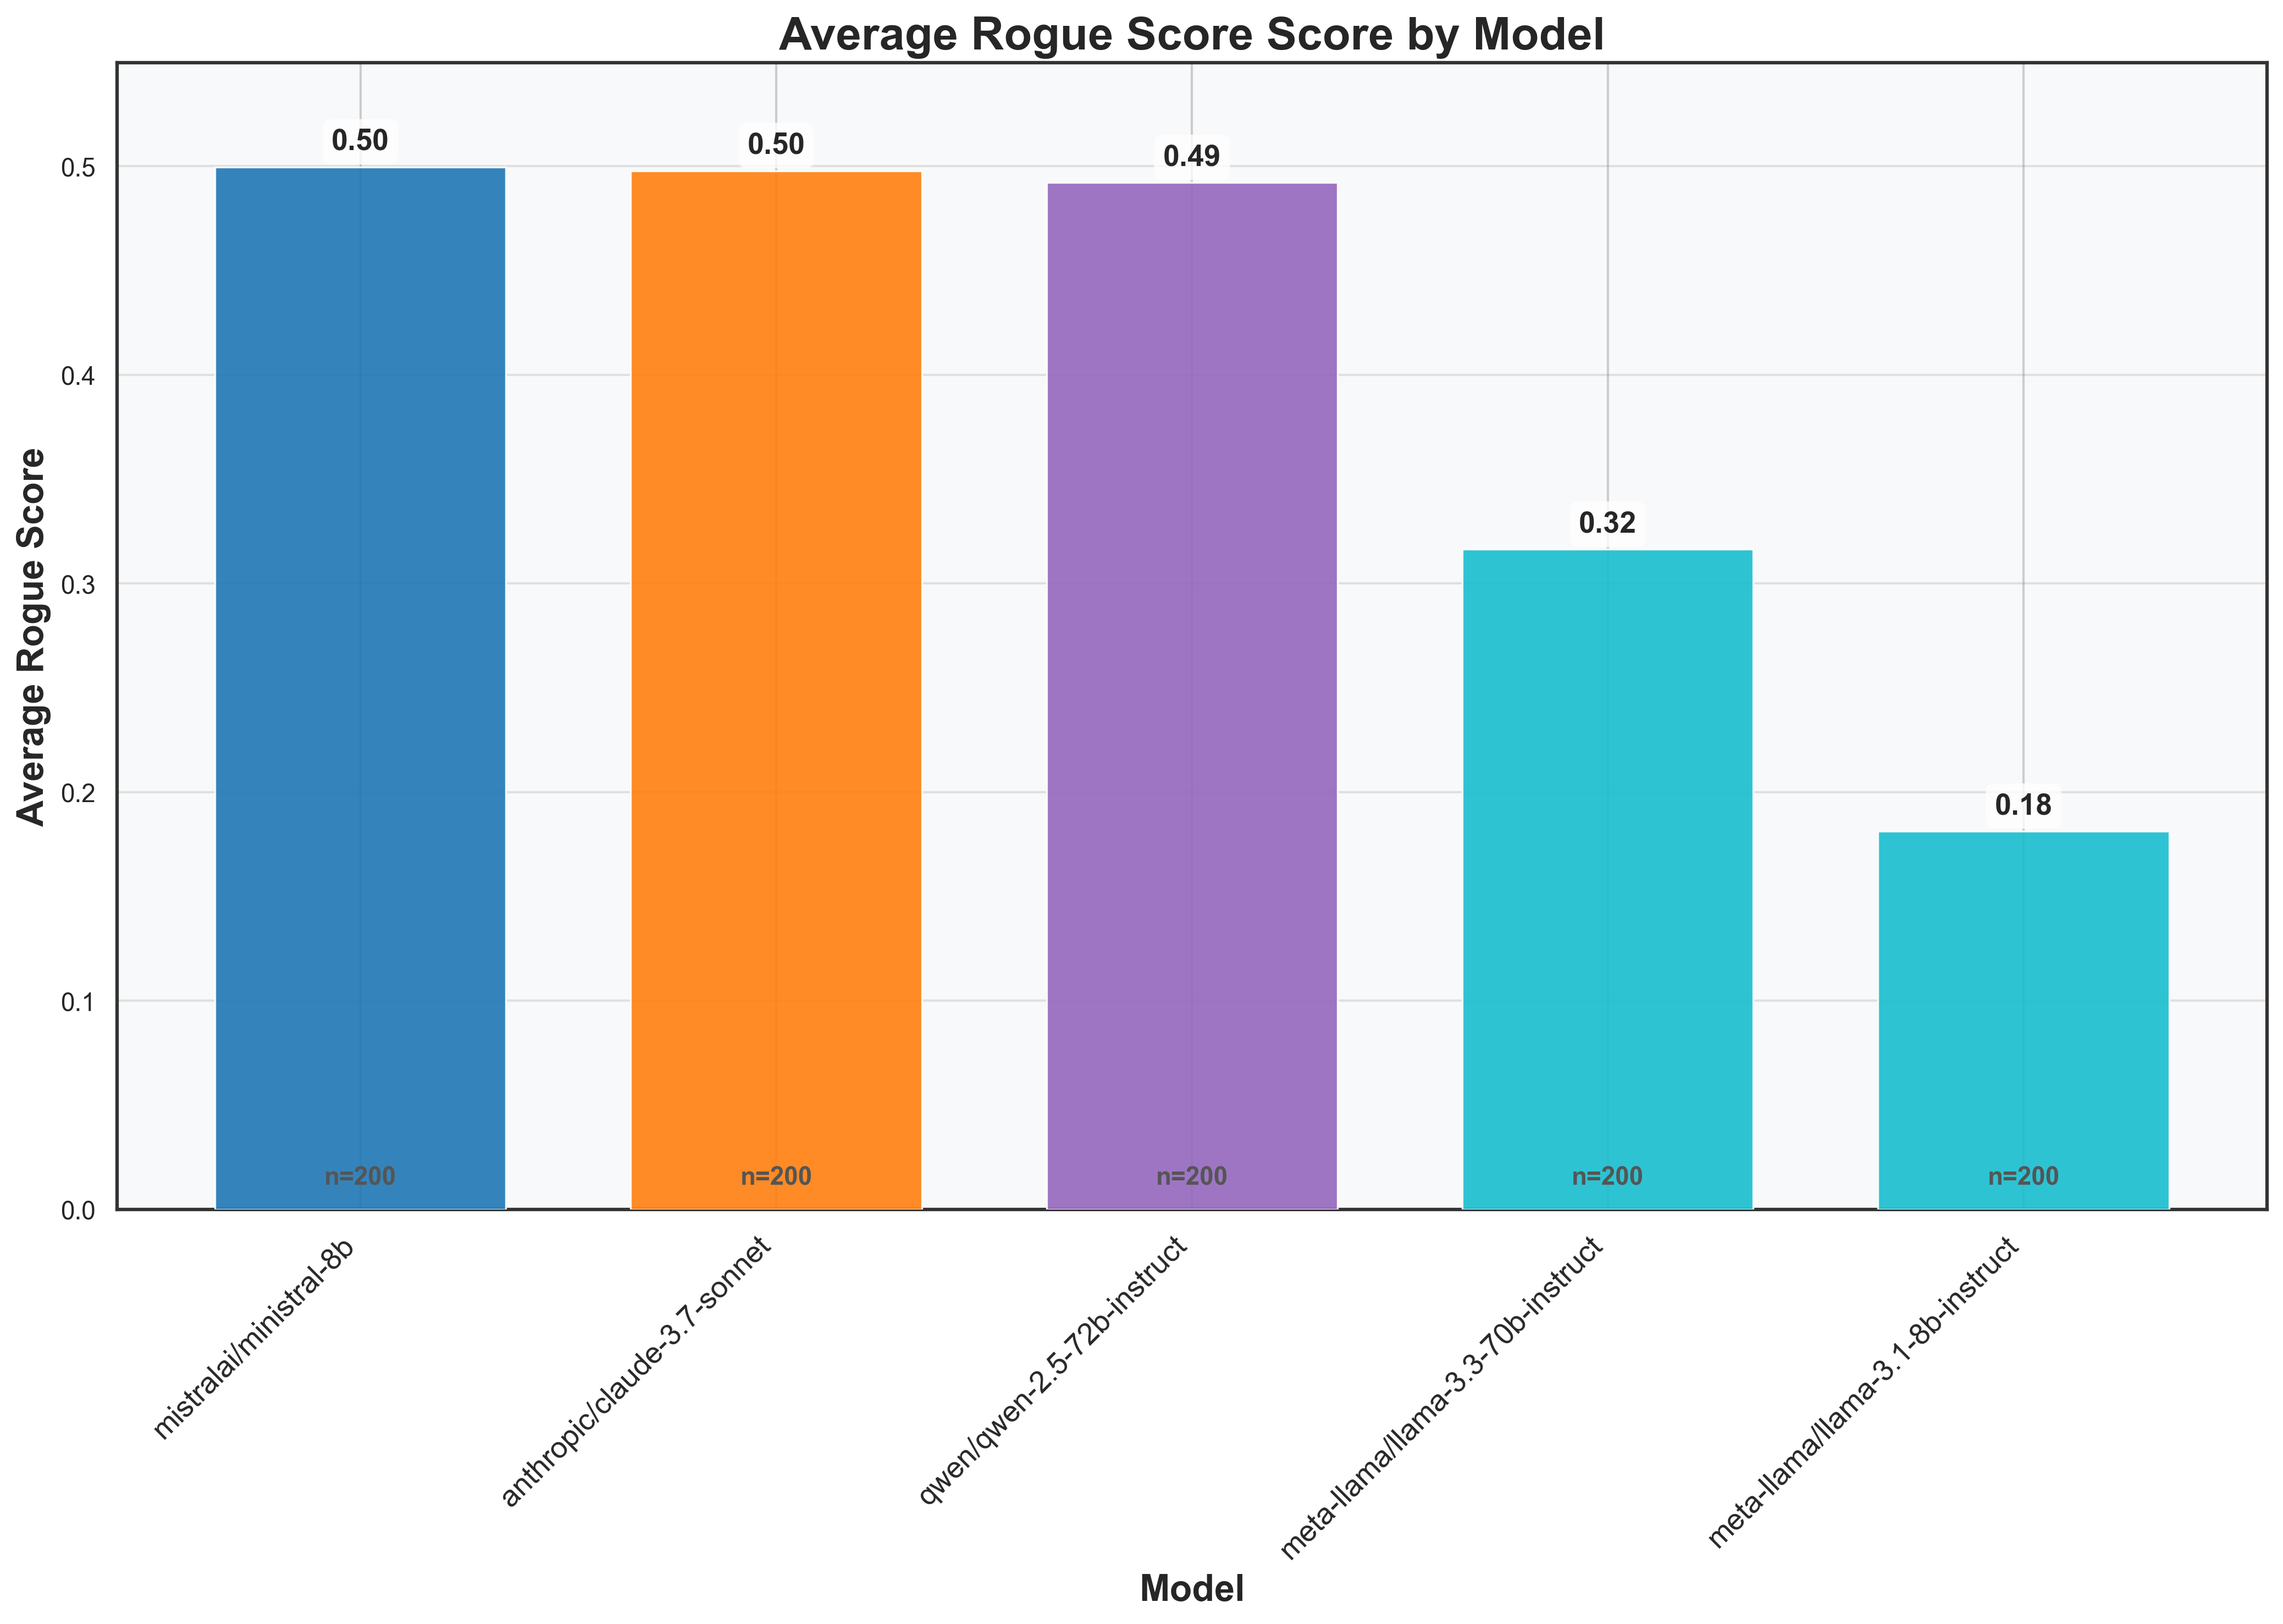
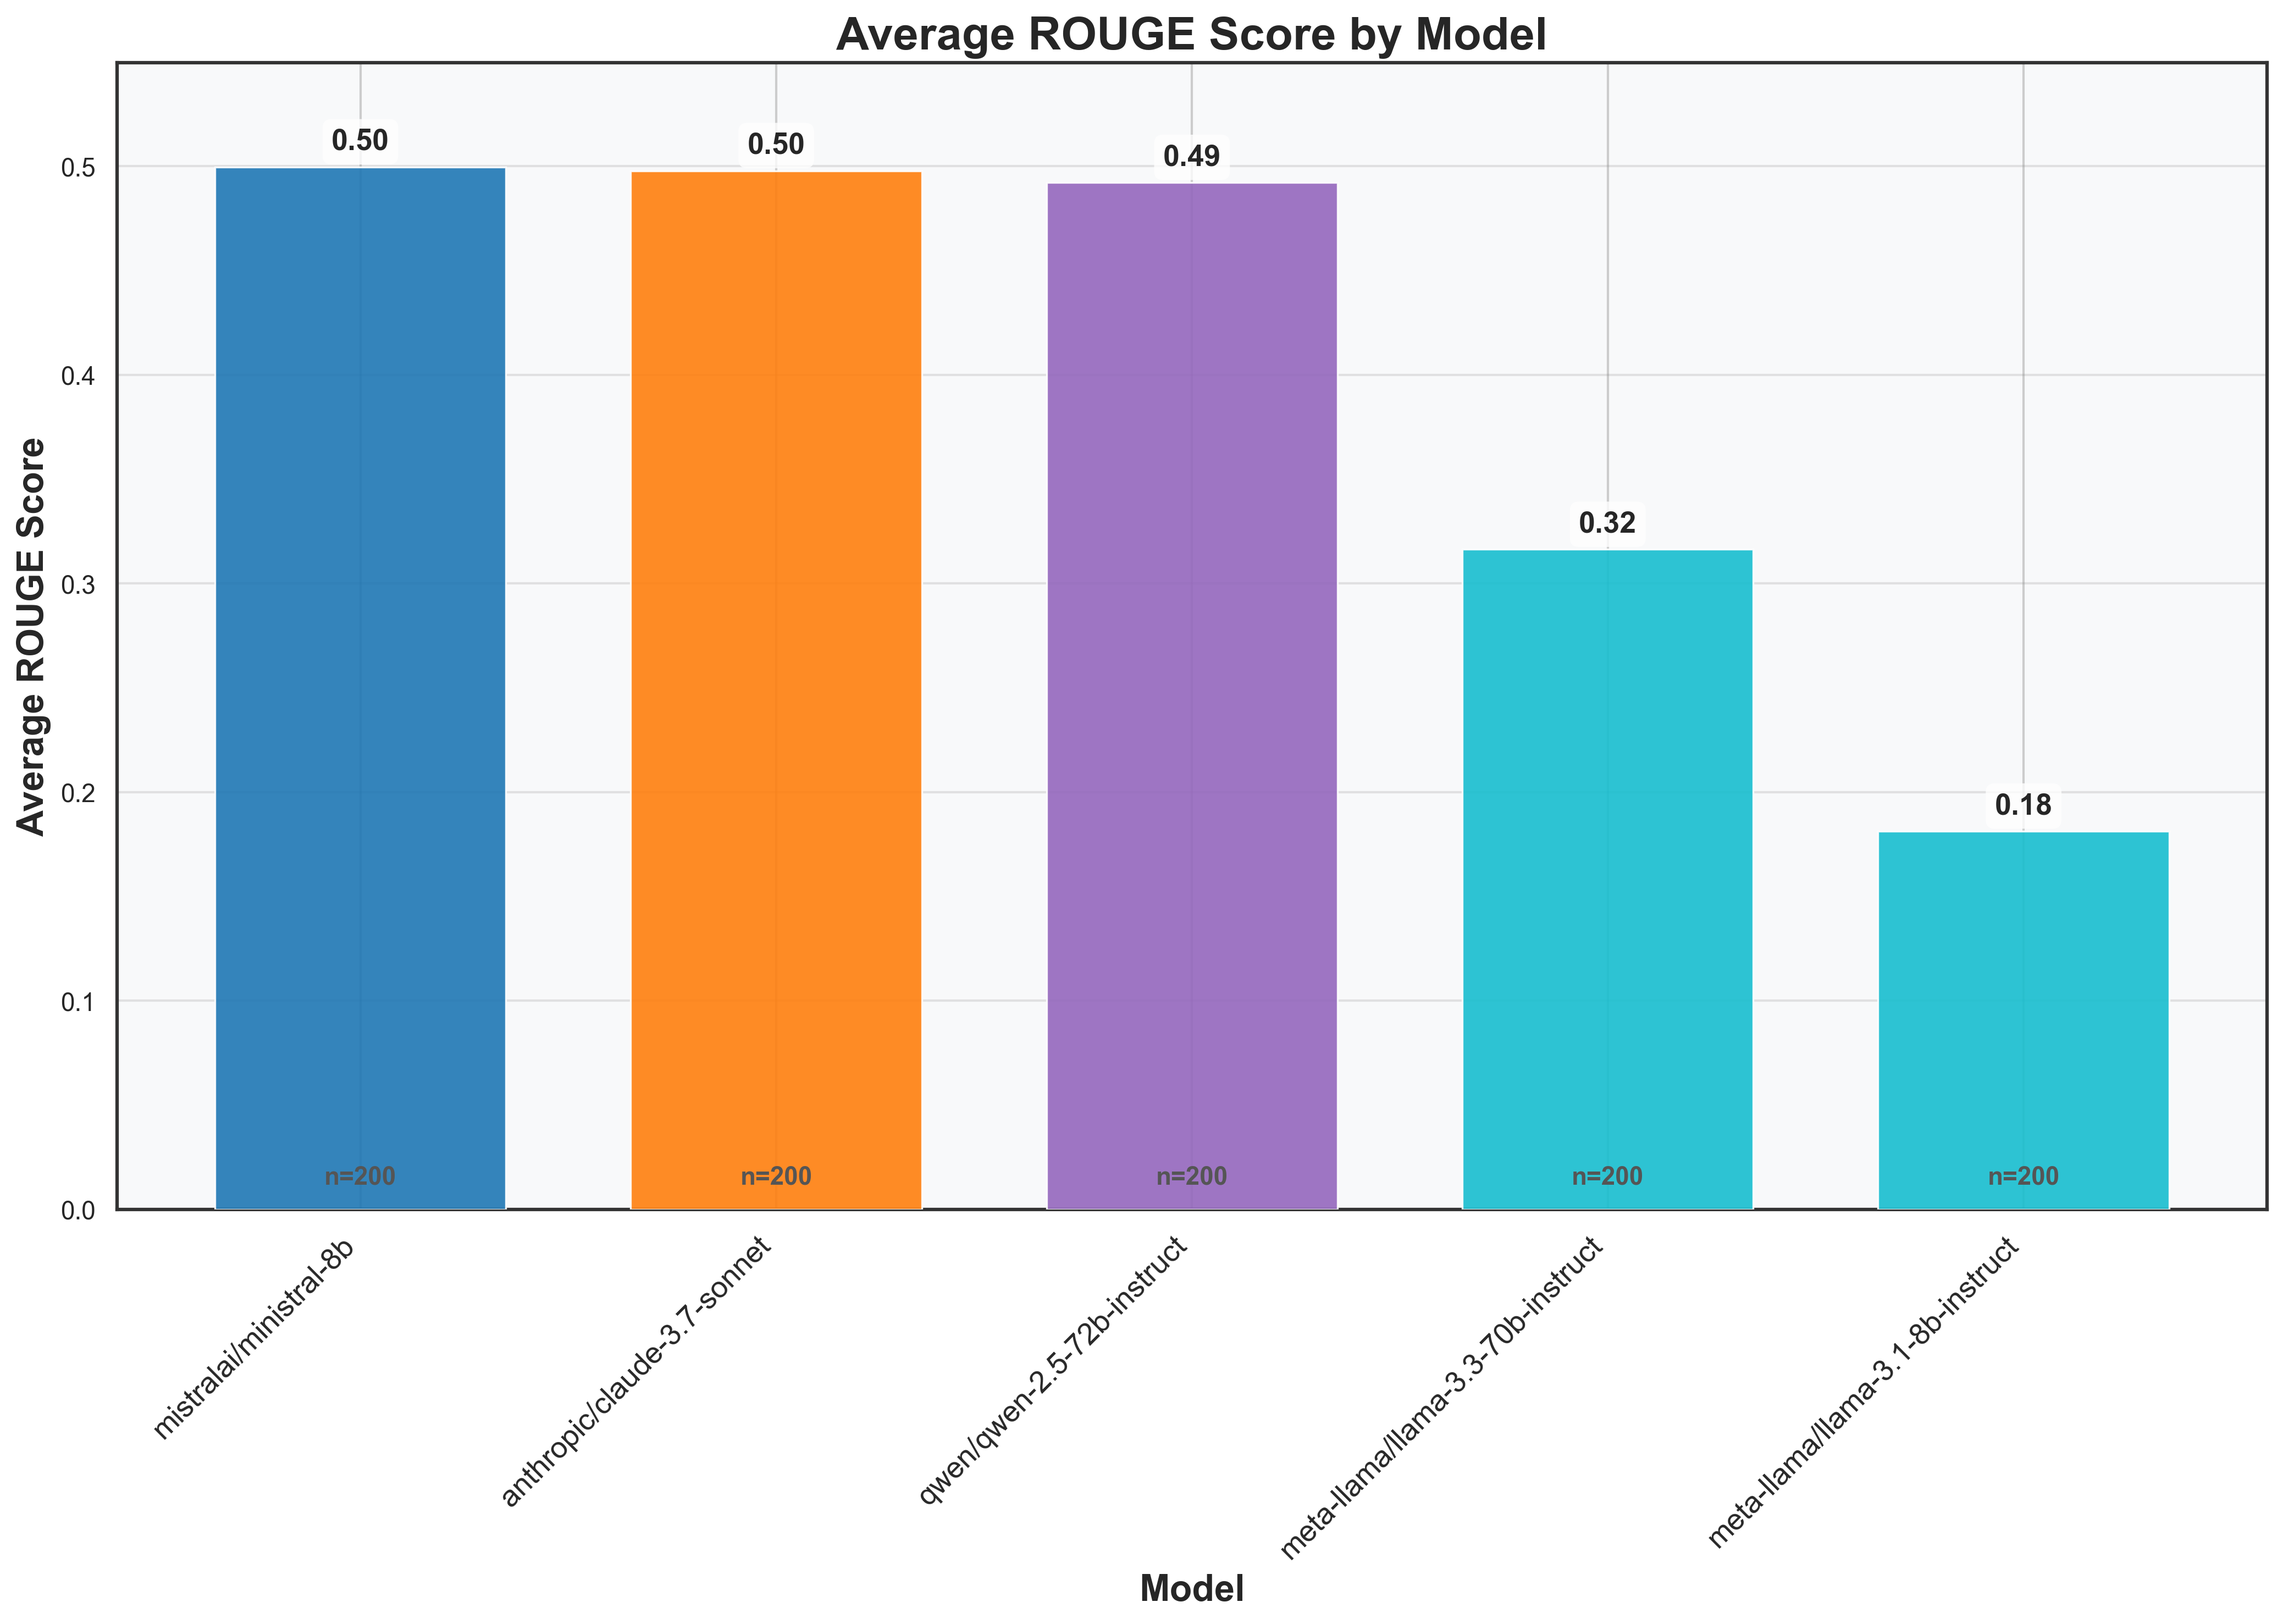
No more rogue thanks!

Changed region(s): [[0.3417, 0.0, 0.7144, 0.0311], [0.0, 0.2803, 0.0311, 0.5295]]

diff --git a/backend/app/utils/chart_generator.py b/backend/app/utils/chart_generator.py
@@ -252,8 +252,14 @@ class ChartGenerator:
         ax.set_facecolor('#f8f9fa')  # Very light gray background
         
         # Add labels and title with improved formatting
-        formatted_metric = ' '.join(word.capitalize() for word in metric_name.split('_'))
-        ax.set_title(f'Average {formatted_metric} Score by Model', fontsize=20, fontweight='bold')
+        formatted_metric = metric_name
+        if metric_name == 'rogue_score':
+            formatted_metric = 'ROUGE Score'
+        elif metric_name == 'bleu_score':
+            formatted_metric = 'BLEU Score'
+        else:
+            formatted_metric = ' '.join(word.capitalize() for word in metric_name.split('_'))
+        ax.set_title(f'Average {formatted_metric} by Model', fontsize=20, fontweight='bold')
         ax.set_xlabel('Model', fontsize=16, fontweight='bold')
         ax.set_ylabel(f'Average {formatted_metric}', fontsize=16, fontweight='bold')
         
